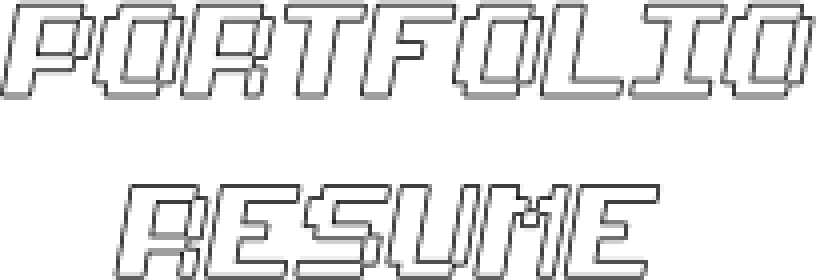
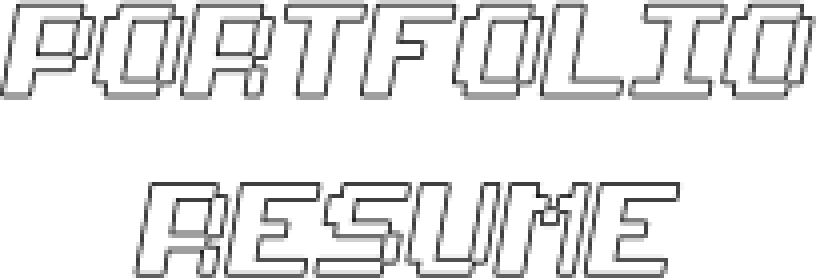
final image organization

Changed region(s): [[0.1225, 0.6286, 0.8578, 1.0]]

diff --git a/index.html b/index.html
@@ -1,12 +1,38 @@
-<html>
-	<head>
-		<meta charset="utf-8">
-		<meta name="viewport" content="width=device-width">
-		<title>Pete's Landing Page</title>
-		<link rel="stylesheet" href="css/app.css">
-	</head>
-	<body>
-		<div id="plane"><div></div></div>
-		<script src="js/app-compiled.js"></script>
-	</body>
+<!DOCTYPE html>
+<html lang="en">
+<head>
+	<meta charset="utf-8">
+	<meta name="viewport" content="width=device-width">
+	<title>Pete's Landing Page</title>
+	<link rel="stylesheet" href="css/app.css">
+</head>
+<body>
+<div id="loading">
+	<img src="img/loading.png" alt="Loading...">
+</div>
+<div id="pete">
+	<div></div>
+</div>
+<div id="plane">
+	<div></div>
+</div>
+<div id="logo">
+	<img src="img/logo.png" alt="Peter Meersman, Copywriter and More">
+</div>
+<div id="menu">
+	<a href="http://petermeersman.com/index.php#portfolio" title="Portfolio"><span></span></a>
+	<a href="http://petermeersman.com/index.php#about" title="Resume"><span></span></a>
+</div>
+<div id="social">
+	<a href="https://twitter.com/"></a>
+	<a href="https://facebook.com/"></a>
+	<a href="https://youtube.com/"></a>
+	<a href="https://instagram.com/"></a>
+	<a href="https://linkedin.com/"></a>
+</div>
+<div id="replay">
+	<img src="img/replay.png" alt="replay">
+</div>
+<script src="js/app-compiled.js"></script>
+</body>
 </html>
